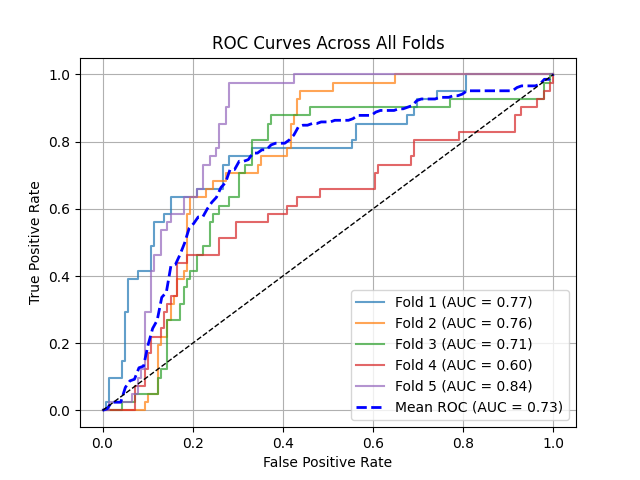
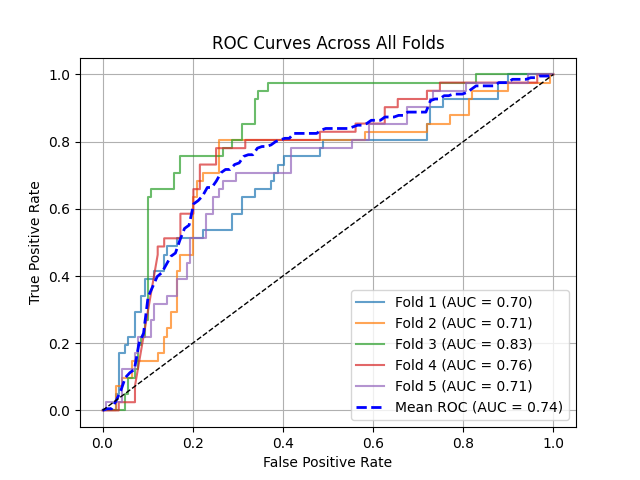
shift scale rotate changed

diff --git a/dataset_washu2.py b/dataset_washu2.py
@@ -81,7 +81,7 @@ train_transform = A.Compose([
     A.VerticalFlip(p=0.5),
     A.RandomRotate90(p=0.5),
 
-	A.ShiftScaleRotate(shift_limit=0.005, scale_limit=0.005, rotate_limit=10, border_mode=0, value=0, p=0.5), 
+	A.ShiftScaleRotate(shift_limit=(-0.01, 0.005), scale_limit=(-0.01, 0.005), rotate_limit=(-40,40), p=0.5), 
     A.ElasticTransform(alpha = 0.3, sigma = 250, p=0.5),
     A.GridDistortion(distort_limit=(-0.2,0.2), p=0.5),
 	A.GaussNoise(std_range=(0.02, 0.1), p=0.9),
